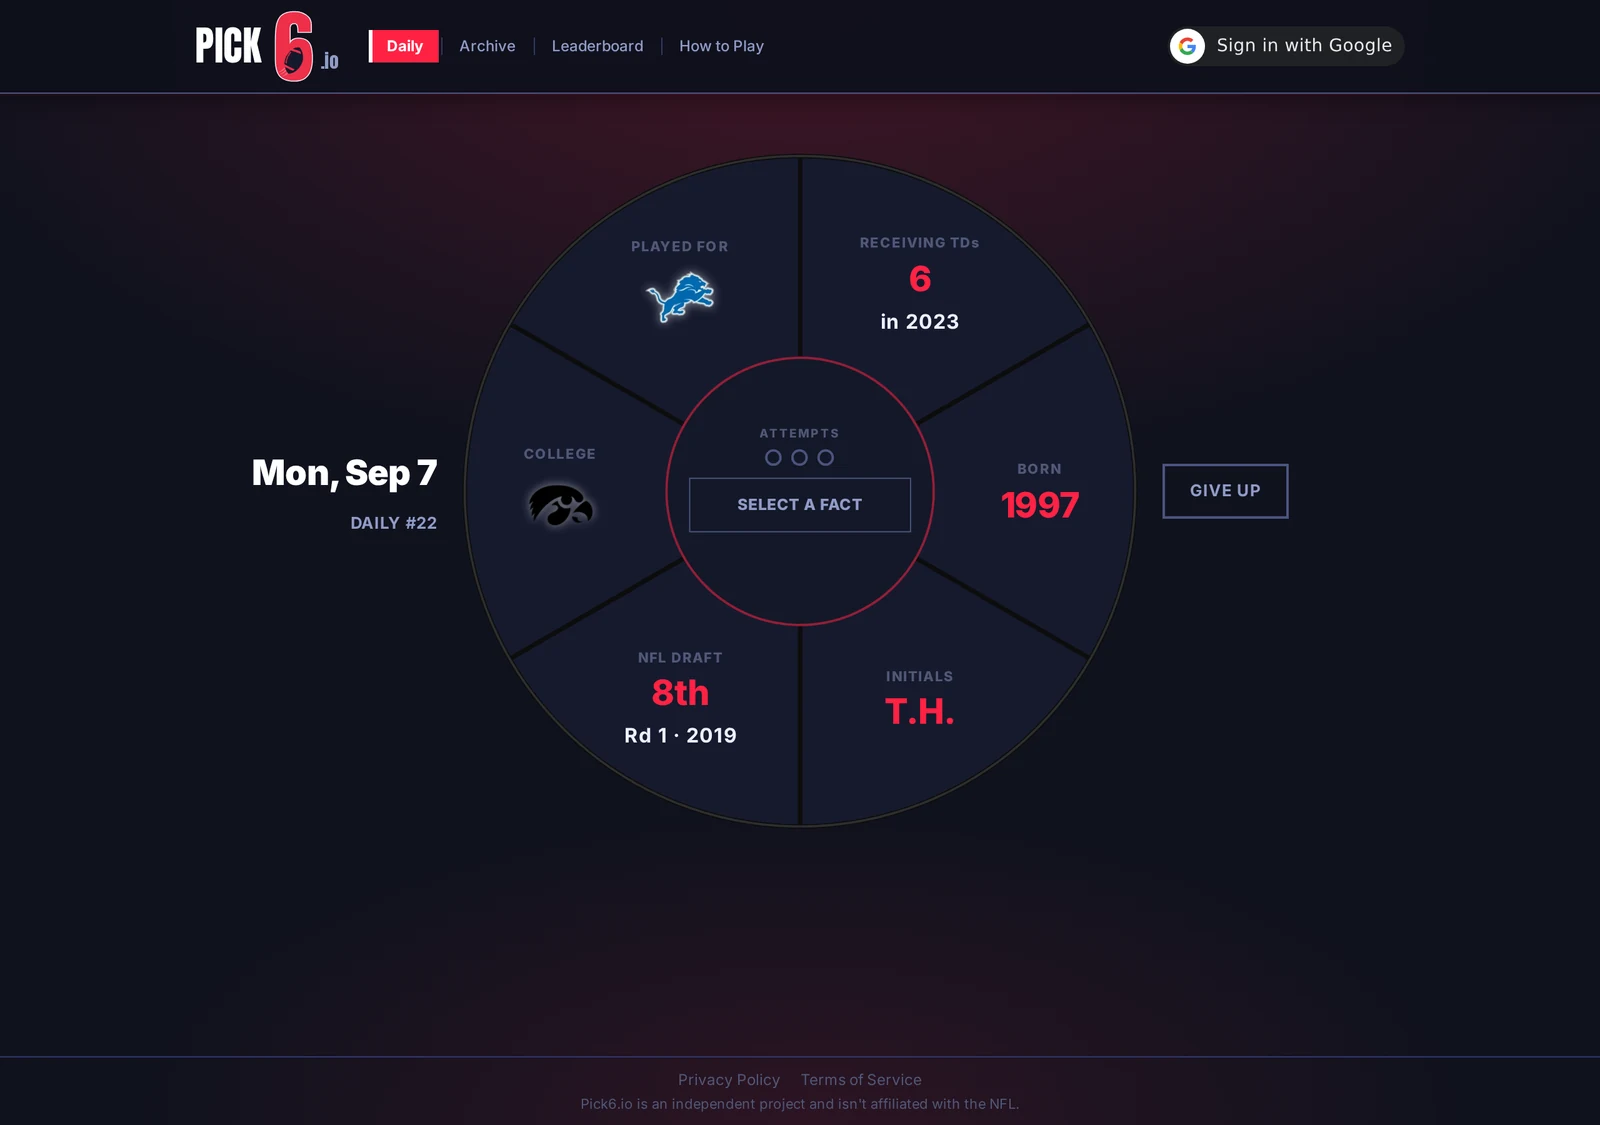
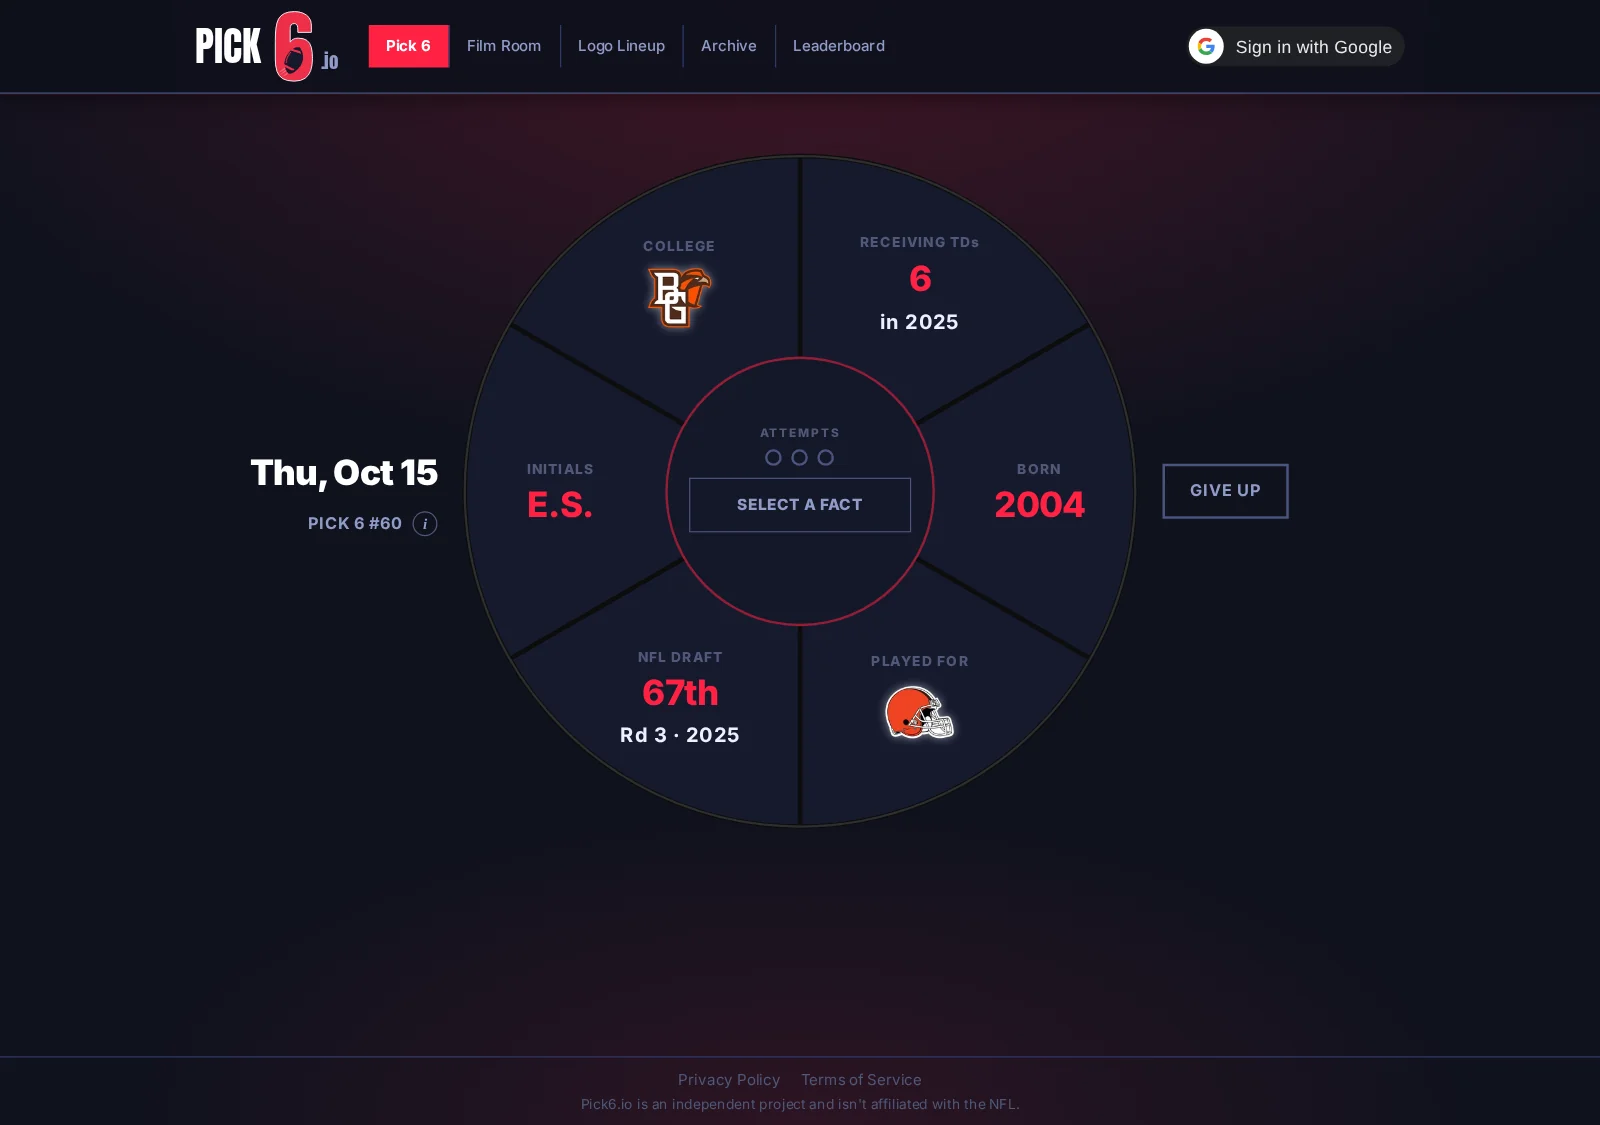
changed readme and terms of service

diff --git a/src/components/PrivacyPolicy.jsx b/src/components/PrivacyPolicy.jsx
@@ -3,25 +3,26 @@ export default function PrivacyPolicy() {
     <div className="htp-page">
       <div className="htp-card">
 
-        <p className="legal-meta">Last updated: August 18, 2026</p>
+        <p className="legal-meta">Last updated: October 15, 2026</p>
 
         <div className="legal-section">
           <h2 className="htp-section-title">Overview</h2>
-          <p>Pick6.io is a small, independently-run NFL trivia game. This policy explains what data we collect when you use it, why, and what say you have over it. We keep this short on purpose. If a section doesn't apply to how you use the site (for example, you haven't created an account), it simply doesn't apply to you.</p>
+          <p>Pick6.io is a small, independently-run collection of daily sports trivia games. This policy explains what data we collect when you use it, why, and what say you have over it. We keep this short on purpose. If a section doesn't apply to how you use the site (for example, you haven't created an account), it simply doesn't apply to you.</p>
         </div>
 
         <div className="legal-section">
           <h2 className="htp-section-title">Playing without an account</h2>
-          <p>You can play the daily puzzle without signing up for anything. Your in-progress guesses are kept in your browser only and are never sent to our servers. Like most web services, our hosting providers keep short-lived technical logs (e.g. IP address, request time) for security and abuse prevention. We don't use these for tracking or advertising, and we don't run any analytics or ad scripts on this site.</p>
+          <p>You can play every game without signing up for anything. Your in-progress games are kept in your browser. Each guess is sent to our server so it can be checked, but nothing about your game is saved there. Like most web services, our hosting providers keep short-lived technical logs (e.g. IP address, request time) for security and abuse prevention. We don't use these for tracking or advertising, and we don't run any analytics or ad scripts on this site.</p>
         </div>
 
         <div className="legal-section">
           <h2 className="htp-section-title">If you create an account</h2>
-          <p>When account creation is available, signing in will let you save your streak and results across devices. Creating an account means we store:</p>
+          <p>Signing in with Google lets you save your results across devices and shows them on the leaderboards and your profile. Creating an account means we store:</p>
           <ul>
             <li>Your email address and a display name.</li>
             <li>If you sign in with Google, the account identifier Google gives us, not your Google password, which we never see.</li>
-            <li>Your daily puzzle results: whether you found the lie, how many attempts it took, whether you guessed the player, and your score.</li>
+            <li>Your results in each daily game. For Pick 6: whether you found the lie, how many attempts it took, the player you guessed, and your score. For Film Room: the teams you guessed, the year you guessed, and your score. For Logo Lineup: the teams you guessed and the attempts you used on each logo, and your score.</li>
+            <li>Your progress in a game you've started but not finished, so you can pick it up on another device.</li>
             <li>A session cookie that keeps you signed in.</li>
           </ul>
           <p>That's the complete list. We don't collect payment information, location data, or anything beyond what's needed to save your progress and show a leaderboard.</p>
@@ -29,7 +30,7 @@ export default function PrivacyPolicy() {
 
         <div className="legal-section">
           <h2 className="htp-section-title">How we use it</h2>
-          <p>Solely to run the features you'd expect: signing you in, saving your results, showing your streak, and displaying your chosen name on the leaderboard if you opt into one. We don't sell data, share it with advertisers, or use it for anything beyond operating Pick6.io.</p>
+          <p>Solely to run the features you'd expect: signing you in, saving your results, showing your per day stats on your profile, and listing your username and scores on the leaderboards (as "Anonymous" until you pick a username). We don't sell data, share it with advertisers, or use it for anything beyond operating Pick6.io.</p>
         </div>
 
         <div className="legal-section">

diff --git a/index.html b/index.html
@@ -20,20 +20,20 @@
       connect-src 'self' http://localhost:3001 https://api.pick6.io https://*.onrender.com https://*.amazonaws.com https://github.com https://objects.githubusercontent.com https://accounts.google.com;
       frame-src https://accounts.google.com;
     " />
-    <title>Pick6.io: spot the lie among six NFL facts</title>
-    <meta name="description" content="A new NFL player puzzle every day — six facts, one of them a lie. Spot it, name the player, score. Pick6.io is an independent project, not affiliated with the NFL." />
+    <title>Pick6.io: daily sports trivia games</title>
+    <meta name="description" content="Daily sports trivia games, each scored out of 6. New puzzles every day. Pick6.io is an independent project, not affiliated with the NFL or any other league." />
     <link rel="canonical" href="https://pick6.io/" />
 
     <meta property="og:type" content="website" />
     <meta property="og:url" content="https://pick6.io/" />
-    <meta property="og:title" content="Pick6.io: spot the lie among six NFL facts" />
-    <meta property="og:description" content="A new NFL player puzzle every day — six facts, one of them a lie. Spot it, name the player, score. Pick6.io is an independent project, not affiliated with the NFL." />
-    <meta property="og:image" content="https://pick6.io/og-image.png" />
+    <meta property="og:title" content="Pick6.io: daily sports trivia games" />
+    <meta property="og:description" content="Daily sports trivia games, each scored out of 6. New puzzles every day. Pick6.io is an independent project, not affiliated with the NFL or any other league." />
+    <meta property="og:image" content="https://pick6.io/og-image.png?v=2" />
 
     <!-- Not for Twitter/X itself, Discord and a few other unfurlers key off this
          tag specifically to render a large image embed instead of a small thumbnail. -->
     <meta name="twitter:card" content="summary_large_image" />
-    <meta name="twitter:image" content="https://pick6.io/og-image.png" />
+    <meta name="twitter:image" content="https://pick6.io/og-image.png?v=2" />
 
     <!--
       Google Search doesn't use SVG favicons — only a raster format, a multiple of

diff --git a/src/components/TermsOfService.jsx b/src/components/TermsOfService.jsx
@@ -3,7 +3,7 @@ export default function TermsOfService() {
     <div className="htp-page">
       <div className="htp-card">
 
-        <p className="legal-meta">Last updated: August 18, 2026</p>
+        <p className="legal-meta">Last updated: October 15, 2026</p>
 
         <div className="legal-section">
           <h2 className="htp-section-title">Agreement</h2>
@@ -12,7 +12,7 @@ export default function TermsOfService() {
 
         <div className="legal-section">
           <h2 className="htp-section-title">What Pick6.io is</h2>
-          <p>Pick6.io is a free, independently-run daily NFL trivia game. It is a fan project and is not affiliated with, endorsed by, or sponsored by the NFL or any team, league, or player association. Team names and logos are used for identification purposes only and remain the property of their respective owners.</p>
+          <p>Pick6.io is a free, independently-run collection of daily sports trivia games. It is a fan project and is not affiliated with, endorsed by, or sponsored by the NFL, NBA, MLB, NHL, NCAA, or any team, school, conference, league, or player association. Team and school names and logos are used for identification purposes only and remain the property of their respective owners.</p>
         </div>
 
         <div className="legal-section">
@@ -33,7 +33,7 @@ export default function TermsOfService() {
 
         <div className="legal-section">
           <h2 className="htp-section-title">Ownership</h2>
-          <p>The Pick6.io name, puzzle format, and underlying code and design are ours. The underlying NFL statistics and career facts are drawn from public sources and belong to no one; we don't claim ownership over the facts themselves, only how the game presents them.</p>
+          <p>The Pick6.io name, puzzle format, and underlying code and design are ours. The underlying sports statistics and career facts are drawn from public sources and belong to no one; we don't claim ownership over the facts themselves, only how the game presents them.</p>
         </div>
 
         <div className="legal-section">

diff --git a/src/components/Footer.jsx b/src/components/Footer.jsx
@@ -5,7 +5,7 @@ function Footer({ onNav }) {
         <button onClick={() => onNav('privacy')}>Privacy Policy</button>
         <button onClick={() => onNav('terms')}>Terms of Service</button>
       </div>
-      <p className="site-footer-copy">Pick6.io is an independent project and isn't affiliated with the NFL.</p>
+      <p className="site-footer-copy">Pick6.io is an independent project and isn't affiliated with the NFL or any other league.</p>
     </footer>
   )
 }

diff --git a/README.md b/README.md
@@ -1,6 +1,10 @@
 # Pick6.io
 
-A daily NFL trivia puzzle game. Each puzzle shows six facts about a mystery player, however one of them is a lie. Spot the lie, name the player, and score points. Whiff on both and it's a Pick Six.
+Three daily sports trivia games, each scored out of 6:
+
+- **Pick 6:** six facts about a mystery NFL player, one of them a lie. Spot the lie, name the player. Whiff on both and it's a Pick Six.
+- **Film Room:** six clues about one NFL team's season. Guess the team, then the year.
+- **Logo Lineup:** six logos zoomed way in, one each from the NFL, NBA, MLB, NHL and college, plus one old logo. Name the teams.
 
 ![Pick6.io](public/og-image.png)
 
@@ -8,19 +12,24 @@ A daily NFL trivia puzzle game. Each puzzle shows six facts about a mystery play
 
 <table>
 <tr>
-<td width="33%"><img src="docs/screenshots/daily.webp" alt="Daily puzzle"></td>
-<td width="33%"><img src="docs/screenshots/archive.webp" alt="Archive"></td>
-<td width="33%"><img src="docs/screenshots/how-to-play.webp" alt="How to Play"></td>
+<td width="33%"><img src="docs/screenshots/daily.webp" alt="Pick 6"></td>
+<td width="33%"><img src="docs/screenshots/filmroom.webp" alt="Film Room"></td>
+<td width="33%"><img src="docs/screenshots/lineup.webp" alt="Logo Lineup"></td>
 </tr>
 </table>
 
 ## How it works
 
-- One puzzle per day, featuring a currently active NFL player
-- **+3 pts** for naming the correct player · **+3 pts** for spotting the lie (drops by 1 per wrong attempt, min +1)
-- Max score: **6 points** · miss both and it's a Pick Six
+- A new puzzle for each game every day, max score **6 points** in each
 - Missed a day? Past puzzles stay playable in the archive
-- Sign in with Google to save your results across devices and appear on the leaderboard
+- Sign in with Google to save your results across devices, appear on each game's leaderboard, and see your per day stats on your profile
+- Each game's rules are behind the **i** next to its puzzle number
+
+### Pick 6
+
+- Each puzzle features a currently active NFL player
+- **+3 pts** for naming the correct player · **+3 pts** for spotting the lie (drops by 1 per wrong attempt, min +1)
+- Miss both and it's a Pick Six
 
 Facts are generated from a player's real record, so the lie has to sit convincingly among them:
 
@@ -32,6 +41,23 @@ Facts are generated from a player's real record, so the lie has to sit convincin
 
 Each lie is a plausible near miss rather than a wild one. A stat lie keeps the real number and swaps the season, a draft lie nudges the round or year, and an initials lie borrows the initials of a real player at the same position.
 
+### Film Room
+
+Built for casual fans who don't know every player. Each puzzle is one memorable NFL team season since 2002, laid out like a coach's call sheet.
+
+- Only the record and playoff finish start face up. Each wrong team guess flips the next clue (top receiver, then top rusher)
+- **+3 / +2 / +1** for getting the team on the 1st, 2nd or 3rd attempt
+- Then every clue shows, including the head coach and starting QB, and you guess the year: **+3** exact, **+1** one year off
+- The reveal shows the logo the team actually used that season
+
+### Logo Lineup
+
+For really casual fans. Six logos a day, each zoomed in 5x.
+
+- One current logo each from the NFL, NBA, MLB, NHL and college (Power 4 + Notre Dame), plus one old logo from any of them
+- 3 attempts per logo, every miss zooms out. **+1** per logo you get
+- Play the logos in any order, and Give Up only gives up on the logo you're on
+
 ## Tech stack
 
 | Layer | Technology |
@@ -41,9 +67,11 @@ Each lie is a plausible near miss rather than a wild one. A stat lie keeps the r
 | Database | PostgreSQL (AWS RDS) |
 | Auth | Google Sign-In, JWT session cookie |
 | Awards data | `public/awards.csv` — scraped from Wikipedia |
+| Film Room data | `nfl_data_py` / `nflreadpy` schedules and weekly stats plus nflverse standings, built into `api/data/team_seasons.json` |
+| Logos | Official league SVGs (NFL, NBA, MLB, NHL, NCAA) and old logos from sportslogos.net, cropped server-side with `sharp` |
 | Deployment | Vercel (frontend) · Render (API) |
 
-Answers are withheld server-side: the player's name, the lie, and the reveal portrait are stripped from every response until they've been earned.
+Answers are withheld server-side in every game. Pick 6 strips the player's name, the lie, and the reveal portrait until they've been earned, Film Room only sends the clues you've unlocked, and Logo Lineup sends a pre-cut crop at the zoom level you've reached instead of the full logo. Daily answers are shuffled with a server secret, so the public repo doesn't give away future puzzles.
 
 ## Developer docs
 
@@ -53,20 +81,23 @@ How the code works, how to deploy it, and what's planned next live in [`docs/`](
 
 ```
 ├── src/                  # React frontend
-│   ├── components/       # GameBoard, Header, HowToPlay, Archive, Leaderboard, Admin, ...
-│   ├── utils/            # factDisplay, teamLogo, collegeLogo
+│   ├── components/       # GameBoard (Pick 6), FilmRoomBoard, LineupBoard, Header, HowToPlay, Archive, Leaderboard, Profile, Admin, ...
+│   ├── utils/            # factDisplay, teamLogo, collegeLogo, franchises
 │   └── App.jsx
 ├── api/                  # Express API server
-│   ├── index.js          # Routes + security middleware
+│   ├── index.js          # Pick 6 + account routes, security middleware
 │   ├── auth.js           # Google sign-in, sessions, admin gate
-│   └── puzzle.js         # Puzzle generation logic
+│   ├── puzzle.js         # Pick 6 puzzle generation logic
+│   ├── filmroom.js       # Film Room
+│   ├── lineup.js         # Logo Lineup, including the server-side logo crops
+│   └── data/             # Film Room seasons + Logo Lineup team and old logo lists
 ├── public/
 │   ├── awards.csv        # HOF, Pro Bowl, All-Pro, MVP, OPOY, DPOY, ROY, CPOY (1957–2025)
-│   ├── logos/            # NFL team + college logos
+│   ├── logos/            # NFL team + college logos, NFL era logos, Logo Lineup logos
 │   └── og-image.png      # Social share preview image
 ├── docs/                 # developer docs — start at docs/README.md
 │   └── screenshots/      # README screenshots
-├── scripts/              # Data loading + scraping scripts (Python)
+├── scripts/              # Data loading, Film Room + Logo Lineup builders (Python)
 ├── render.yaml           # Render deployment config (API)
 └── vercel.json           # Vercel deployment config (frontend)
 ```
